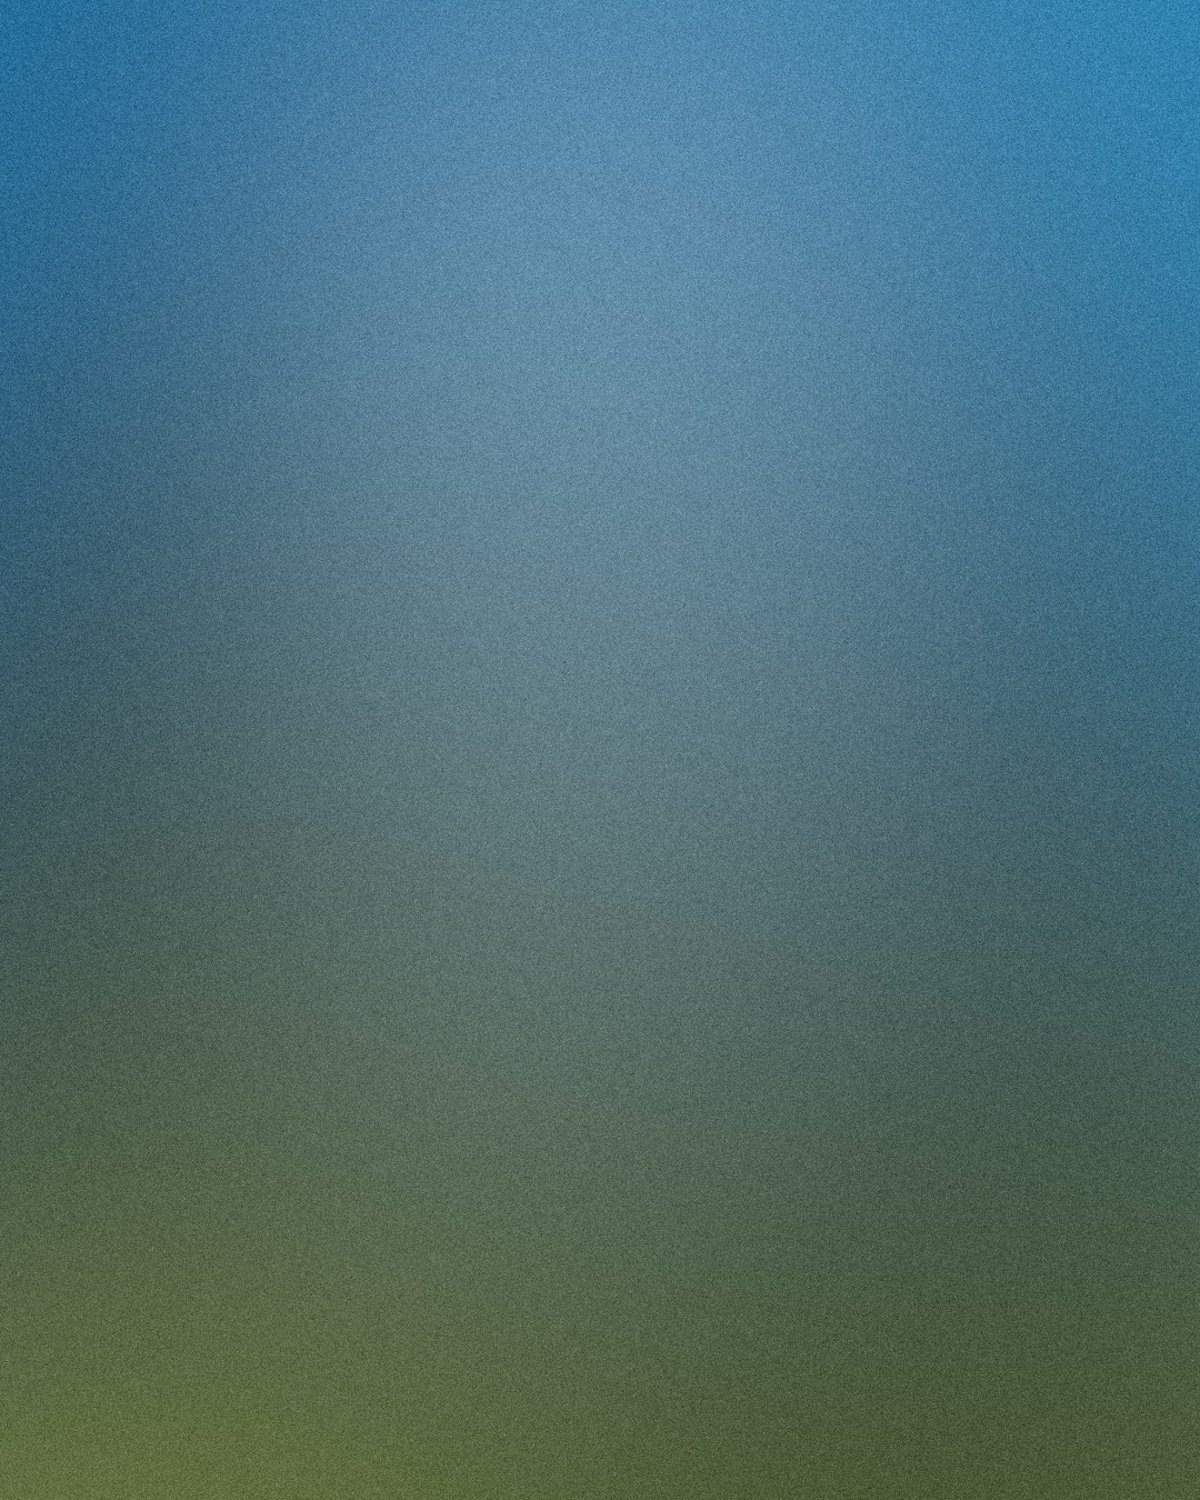
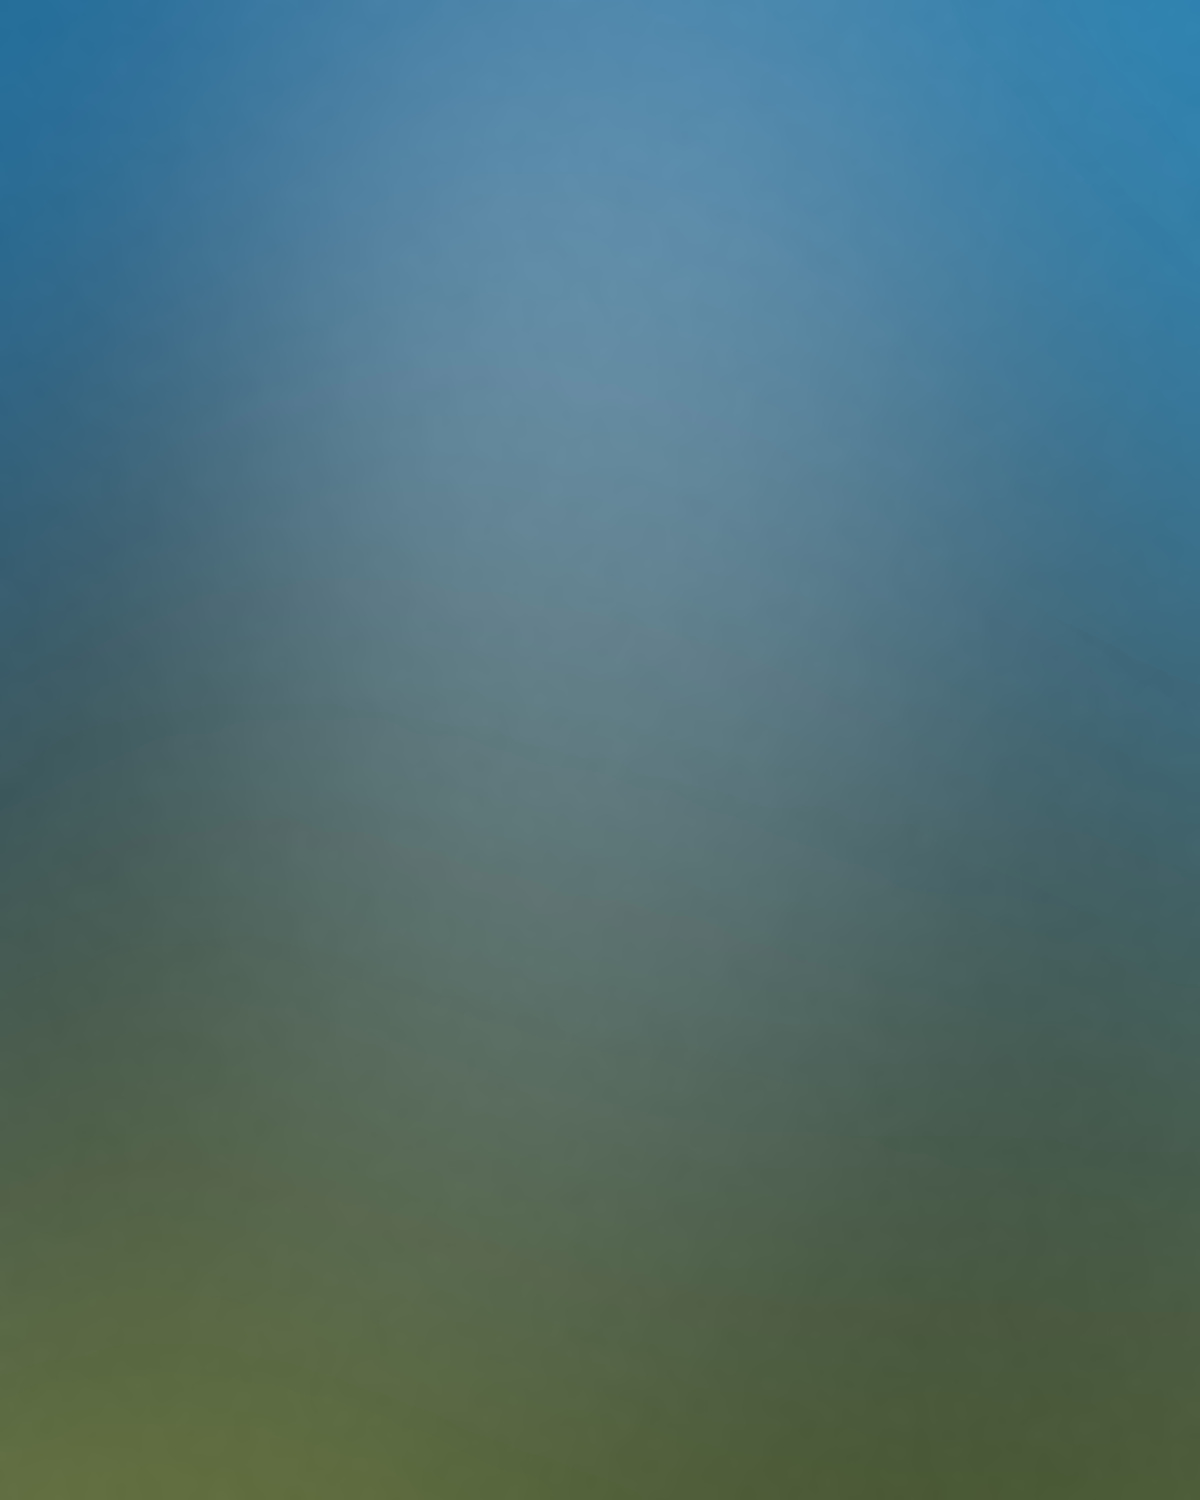
frontlabs: sem grão, fotos limpas e pronto pro domínio
- tira o grão do site (tokens, brand.css, Steps, StepOrbit, grao.png), DESIGN §4.3 / #31
- fotos das cadeiras e da noiva refeitas sem grão; fundo borrado e Horizonte limpos
- site indexável: robots.txt, sitemap, Open Graph/Twitter com imagem, favicon e apple-icon
- formulário do preview abre e-mail pronto para o Arch com o site digitado
- some o "[CONFIRMAR e-mail público]" do card do Arch
- véu do herói mais escuro no celular; /specimen com noindex
- docs/DESIGN.md sincronizado com o v4 revisado em 13/10

diff --git a/frontlabs/content/site.ts b/frontlabs/content/site.ts
@@ -13,6 +13,11 @@ const CALL_HREF = `mailto:archielewis49@gmail.com?subject=${encodeURIComponent("
 const R = { how: "/how-it-works", get: "/what-you-get", pricing: "/pricing", questions: "/questions" };
 const PREVIEW = "#cta"; // toda página termina no formulário do preview (FinalCta, id "cta")
 
+/** Endereço público do site: NEXT_PUBLIC_SITE_URL quando o domínio estiver ligado; na Vercel, o domínio de produção. */
+export const siteUrl =
+  process.env.NEXT_PUBLIC_SITE_URL ??
+  (process.env.VERCEL_PROJECT_PRODUCTION_URL ? `https://${process.env.VERCEL_PROJECT_PRODUCTION_URL}` : "http://localhost:3000");
+
 const AI_PROMPT = encodeURIComponent("What does Front Labs, the website studio for local businesses, do? How does its free website preview work?");
 
 /** O site do próprio visitante, ilustrativo (FRONTLABS-HOME §1). Nunca um cliente real. */
@@ -568,7 +573,6 @@ export const site: Site = {
       initial: "A",
       bubble: "Something else on your mind?",
       email: EMAIL,
-      emailNote: "[CONFIRMAR e-mail público]",
       button: "Email Arch",
     },
     more: { label: "See all questions", href: R.questions },
@@ -595,7 +599,9 @@ export const site: Site = {
     microcopy: "Free preview · You see it first, then decide",
     errorEmpty: "Add your website so we know what to rebuild.",
     errorInvalid: "That doesn't look like a web address. Try yourbusiness.com",
-    success: "Got it. We'll start on your preview.",
+    success: "Got it. Your email app opened with the request. Hit send and we'll start on your preview.",
+    // sem backend: o envio abre um e-mail pronto para o Arch com o site do visitante
+    sendTo: { email: EMAIL, subject: "Free preview request", body: "Hi Arch, here's my current website: " },
     background: { kind: "gradient", src: "/img/gradiente-horizonte-16x9.jpg", alt: "" },
   },
 
@@ -866,8 +872,7 @@ export const site: Site = {
           initial: "A",
           bubble: "Something else on your mind?",
           email: EMAIL,
-          emailNote: "[CONFIRMAR e-mail público]",
-          button: "Email Arch",
+              button: "Email Arch",
         },
         items: [
           { q: "Do I pay anything before I see the new site?", verdict: "No.", a: "We build your preview first. You see it on a 15-minute call, then decide." },

diff --git a/frontlabs/styles/brand.css b/frontlabs/styles/brand.css
@@ -1,21 +1,7 @@
 /*
- * brand.css — só da Front Labs: grão e "câmera lenta" do fundo borrado (DESIGN §4.2.2 e §4.3).
+ * brand.css — só da Front Labs: "câmera lenta" do fundo borrado (DESIGN §4.2.2). Sem grão (§4.3, decisão #31).
  * Aplicado por seletor de seção, sem mexer nos componentes do default.
  */
-
-/* grão fino por cima de toda moldura com mídia (camada overlay; fica abaixo do conteúdo) */
-[data-section="hero"] > div::after,
-[data-section="hero-film"] > div::after,
-[data-section="live-cards"] [data-field]::after,
-[data-stage]::after,
-[data-section="timeline"] > div::after,
-[data-section="final-cta"] > div::after,
-[data-section="announcement"]::after {
-  content: ""; position: absolute; inset: 0; z-index: -1; pointer-events: none;
-  background: var(--grain); background-size: 220px;
-  mix-blend-mode: overlay; opacity: var(--grain-opacity);
-}
-[data-section="announcement"] { position: relative; isolation: isolate; }
 
 /* fundo do herói em movimento lento de câmera: ciclo de 22s, escala 1,04–1,08 */
 [data-section="hero"] [data-media] img,
@@ -37,8 +23,6 @@
 [data-section="hero-film"] [data-media] img { animation: none; transform: scale(1.08); }
 }
 
-/* palco sem overflow: hidden (cresce com o card) → o grão acompanha o raio */
-[data-stage]::after { border-radius: inherit; }
 
 /* rodada 3: pausa global das animações (MotionToggle, WCAG 2.2.2) */
 html[data-motion-paused] *, html[data-motion-paused] *::before, html[data-motion-paused] *::after { animation-play-state: paused !important; }

diff --git a/frontlabs/styles/tokens.css b/frontlabs/styles/tokens.css
@@ -11,7 +11,6 @@
   --p-musgo: #36451a; --p-moca: #836a4e; --p-madeira: #402f1d; --p-linho: #ded5c9;
   --bg-horizonte: url("/img/gradiente-horizonte-16x9.jpg") center / cover;
   --bg-horizonte-4x5: url("/img/gradiente-horizonte-4x5.jpg") center / cover;
-  --grain: url("/img/grao.png");
 
   /* ---------- cor (nomes do default) ---------- */
   --c-bg: var(--bg);
@@ -37,7 +36,6 @@
   --c-dark-btn: transparent;      /* contorno, sem fundo translúcido (vidro em pausa) */
   --c-bar: var(--p-ceu);
   --bar-bg: linear-gradient(rgb(10 10 10 / 0.28), rgb(10 10 10 / 0.28)), var(--bg-horizonte); /* Horizonte (§6.6) com véu para AA */
-  --grain-opacity: 0.22;          /* DESIGN §4.3 pede ~60% em overlay; com este grao.png isso apaga o texto. Ver REVISAR */
   --c-bar-ink: #ffffff;
   --c-on-media: #ffffff;
   --c-on-media-text: rgb(255 255 255 / 0.85);
@@ -45,6 +43,7 @@
   --c-on-media-border: #ffffff;   /* contorno branco 1px (§6.1) */
   --c-on-media-hover: rgb(255 255 255 / 0.12);
   --c-veil: rgb(10 10 10 / 0.3);
+  --c-veil-m: rgb(10 10 10 / 0.45);  /* celular: o texto cai sobre a parte clara do vídeo (janela, lustre) */
   --horizon-dim: 0.72;            /* brilho do Horizonte quando há texto branco por cima (AA) */
   --hero-blur: 14px;              /* foto do herói "bem borrada" (§4.2.2) */
   --c-scrim: linear-gradient(180deg, rgb(10 10 10 / 0.12) 0%, rgb(10 10 10 / 0.5) 100%);

diff --git a/frontlabs/app/layout.tsx b/frontlabs/app/layout.tsx
@@ -4,7 +4,7 @@ import { AnnouncementBar } from "@/components/layout/AnnouncementBar";
 import { Header } from "@/components/layout/Header";
 import { Footer } from "@/components/layout/Footer";
 import { Logo } from "@/components/ui/Logo";
-import { site } from "@/content/site";
+import { site, siteUrl } from "@/content/site";
 import "./globals.css";
 
 /* DESIGN.md §3: Inter (variável, com tamanho ótico), Geist Mono nos rótulos, Bricolage só no nome. */
@@ -13,9 +13,11 @@ const mono = Geist_Mono({ subsets: ["latin"], weight: "400", variable: "--font-m
 const brand = Bricolage_Grotesque({ subsets: ["latin"], weight: "variable", axes: ["opsz"], variable: "--font-brand", display: "swap" });
 
 export const metadata: Metadata = {
+  metadataBase: new URL(siteUrl),
   title: { default: site.meta.title, template: `%s · Front Labs` },
   description: site.meta.description,
-  robots: { index: false, follow: false },
+  openGraph: { type: "website", siteName: "Front Labs", title: site.meta.title, description: site.meta.description, url: "/" },
+  twitter: { card: "summary_large_image", title: site.meta.title, description: site.meta.description },
 };
 
 /* nav e rodapé são os mesmos em todas as páginas; cada página traz o próprio <main id="conteudo"> */

diff --git a/frontlabs/components/sections/FinalCta.tsx b/frontlabs/components/sections/FinalCta.tsx
@@ -11,7 +11,7 @@ const valid = {
   url: (v: string) => /^(https?:\/\/)?([\w-]+\.)+[a-z]{2,}(\/\S*)?$/i.test(v),
 };
 
-/** CTA final (B): título centralizado, frase, card branco com input pill + botão e microcopy. Sem backend: valida e mostra sucesso. */
+/** CTA final (B): título centralizado, frase, card branco com input pill + botão e microcopy. Sem backend: valida, abre o e-mail pronto (sendTo) e mostra sucesso. */
 export function FinalCta({ data = site.finalCta }: { data?: FinalCtaContent }) {
   const id = useId();
   const [value, setValue] = useState("");
@@ -26,6 +26,10 @@ export function FinalCta({ data = site.finalCta }: { data?: FinalCtaContent }) {
     if (!v) return setError(data.errorEmpty);
     if (!valid[data.inputType](v)) return setError(data.errorInvalid);
     setError("");
+    if (data.sendTo) {
+      const { email, subject, body } = data.sendTo;
+      window.location.href = `mailto:${email}?subject=${encodeURIComponent(subject)}&body=${encodeURIComponent(body + v)}`;
+    }
     setDone(true);
   };
 

diff --git a/frontlabs/components/ui/LivingGradient.tsx b/frontlabs/components/ui/LivingGradient.tsx
@@ -10,8 +10,7 @@ const HORIZON = "/img/gradiente-horizonte-16x9.jpg";
  * arquivo, cada uma com translate + scale + poucos graus de rotação em loop `alternate`
  * (19–32s, fases diferentes). A de cima borrada, a do meio em soft-light: as manchas "respiram"
  * sem trocar as cores do arquivo (DESIGN: sem color grade). Só transform/opacity animam.
- * Pausa fora da tela; parado com reduced-motion. O grão fica por conta do contêiner
- * ([data-field] / [data-stage] em brand.css), parado por cima.
+ * Pausa fora da tela; parado com reduced-motion. Sem grão (DESIGN §4.3).
  * `dim`: véu de 28% (= Horizonte a 72%) quando há texto branco por cima.
  */
 export function LivingGradient({ dim = false, sizes = "100vw", className }: { dim?: boolean; sizes?: string; className?: string }) {

diff --git a/frontlabs/components/sections/Steps.module.css b/frontlabs/components/sections/Steps.module.css
@@ -9,10 +9,6 @@
   position: relative; isolation: isolate; overflow: hidden; aspect-ratio: 4 / 3;
   display: grid; grid-template-columns: minmax(0, 1fr); place-items: center; border-radius: var(--r-media-lg); background: var(--c-placeholder-dark);
 }
-.stage::after {
-  content: ""; position: absolute; inset: 0; z-index: -1; pointer-events: none;
-  background: var(--grain); background-size: 220px; mix-blend-mode: overlay; opacity: var(--grain-opacity);
-}
 .bg { object-fit: cover; z-index: -2; }
 .mini { width: 78%; transform: translateY(14%); }
 .mini > * { font-size: var(--t-small); }

diff --git a/frontlabs/components/sections/HeroFilm.tsx b/frontlabs/components/sections/HeroFilm.tsx
@@ -10,7 +10,7 @@ import styles from "./HeroFilm.module.css";
  * Herói com "vídeo" de fundo (Ploy, 1ª dobra): moldura grande, título enorme centralizado,
  * frase + 2 botões embaixo dele, card de anúncio no canto inferior esquerdo (opcional)
  * O vídeo roda sempre, mudo e em loop, sem botão de play/pause (pedido do Arthur, 12/10/2026).
- * Sem vídeo: a imagem com a câmera lenta + grão + véu.
+ * Sem vídeo: a imagem com a câmera lenta + véu.
  */
 export function HeroFilm({ data }: { data: HeroFilmContent }) {
   const videoRef = useRef<HTMLVideoElement>(null);

diff --git a/frontlabs/components/sections/LiveCards.module.css b/frontlabs/components/sections/LiveCards.module.css
@@ -1,4 +1,4 @@
-/* Campo (Ploy: rosa) → Horizonte com grão, raio 24. Cards 373 / pad 24 / gap 16 (medido). */
+/* Campo (Ploy: rosa) → Horizonte limpo, raio 24. Cards 373 / pad 24 / gap 16 (medido). */
 .field { position: relative; isolation: isolate; overflow: hidden; border-radius: var(--r-field); padding: var(--s-9) var(--gutter) var(--s-8); color: var(--c-on-media); }
 .inner { max-width: var(--live-card-w); margin-inline: auto; }
 .head { display: grid; grid-template-columns: minmax(0, 1fr) minmax(0, 1fr); gap: var(--s-6); align-items: end; }

diff --git a/frontlabs/components/sections/StepOrbit.module.css b/frontlabs/components/sections/StepOrbit.module.css
@@ -6,10 +6,6 @@
   background: var(--bg-horizonte); color: var(--c-on-media);
 }
 .floor { position: absolute; inset: 0; z-index: -1; background: var(--orbit-floor); pointer-events: none; }
-.floor::after {
-  content: ""; position: absolute; inset: 0;
-  background: var(--grain); mix-blend-mode: overlay; opacity: var(--grain-opacity);
-}
 
 .heading { position: relative; z-index: 2; padding: var(--s-8) var(--s-5) 0; text-align: center; pointer-events: none; }
 .label { color: var(--c-on-media-text); margin-bottom: var(--s-3); }

diff --git a/frontlabs/components/ui/Stage.tsx b/frontlabs/components/ui/Stage.tsx
@@ -9,7 +9,7 @@ import styles from "./Stage.module.css";
 const HORIZON = "/img/gradiente-horizonte-16x9.jpg";
 
 /**
- * Palco (DESIGN §4.2.2): fundo borrado, Horizonte ou Horizonte vivo, raio 18–24, grão, e por cima o
+ * Palco (DESIGN §4.2.2): fundo borrado, Horizonte ou Horizonte vivo, raio 18–24, sem grão, e por cima o
  * "momento" desenhado em HTML (código sendo escrito, site em vídeo, domínio no ar, lista de pedidos).
  * Usado nas abas da home e nas linhas de /how-it-works.
  */

diff --git a/frontlabs/app/specimen/page.tsx b/frontlabs/app/specimen/page.tsx
@@ -10,7 +10,7 @@ const radii = ["frame", "field", "panel", "card", "card-sm", "media", "pill"];
 const variants = ["primary", "secondary", "outline", "light", "link"] as const;
 const sizes = ["lg", "md", "sm"] as const;
 
-export const metadata = { title: "Specimen" };
+export const metadata = { title: "Specimen", robots: { index: false, follow: false } };
 
 export default function Specimen() {
   return (
